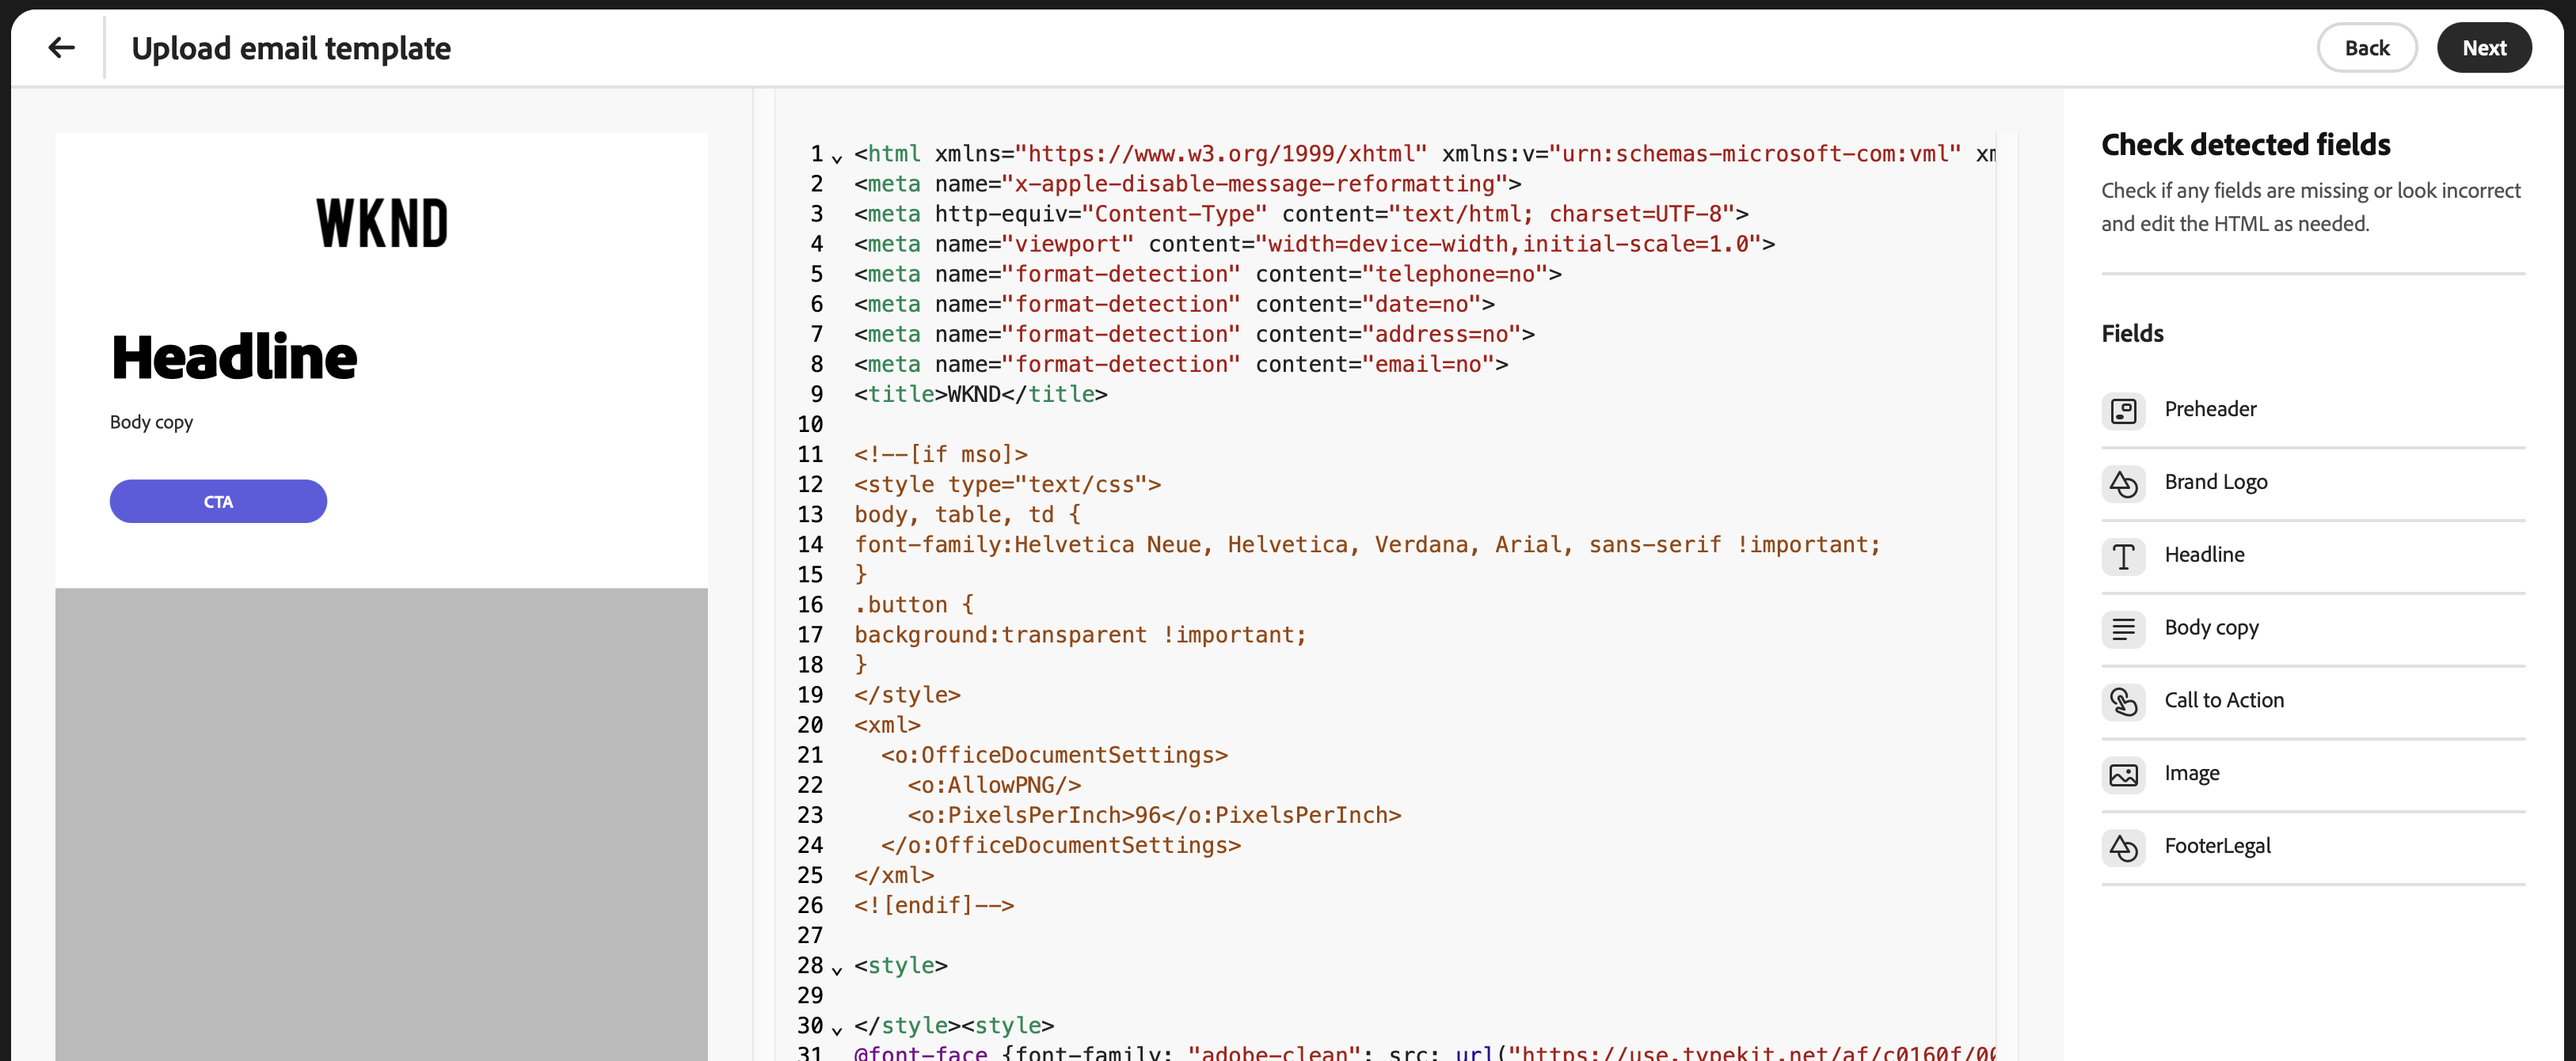
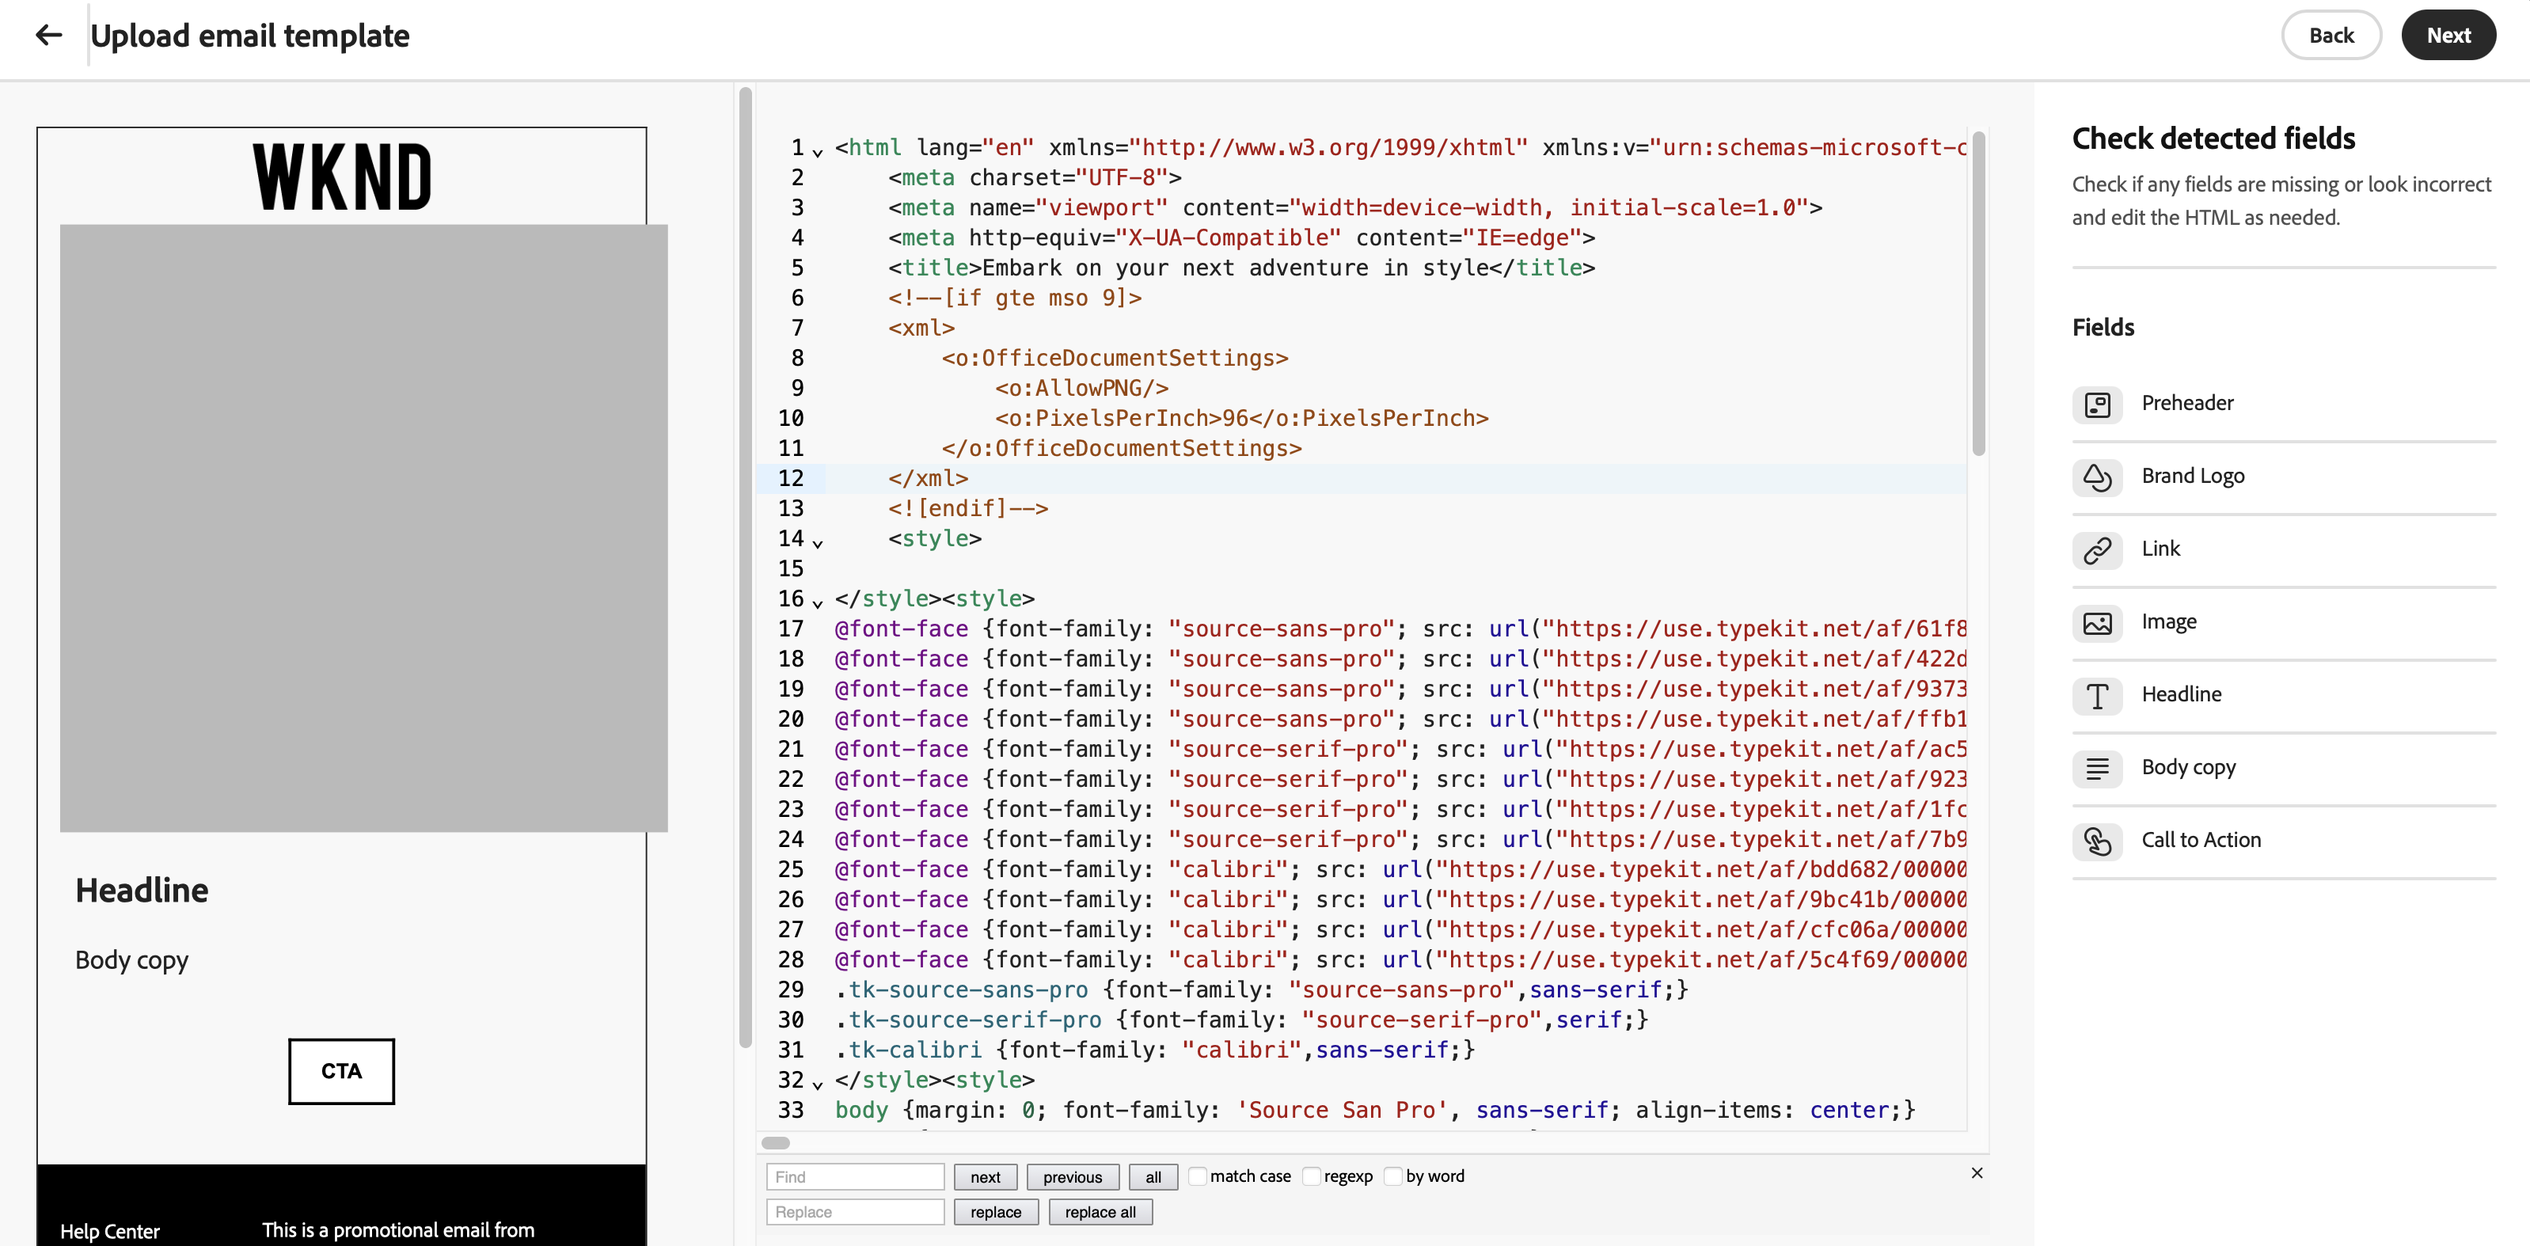
Template code editor

Changed region(s): [[0.0, 0.0, 1.0, 1.0], [0.5885, 0.8867, 0.7434, 0.9172], [0.8364, 0.7644, 0.8983, 0.8255]]

diff --git a/help/user-guide/content/code-editor.md b/help/user-guide/content/code-editor.md
@@ -1,0 +1,37 @@
+---
+title: Template code editor
+description: Learn how to use the template code editor in GenStudio for Performance Marketing.
+level: Intermediate
+feature: Templates, Content
+---
+# Template code editor
+
+The template code editor is designed to help you verify and refine your template for optimal use when generating new experiences with GenStudio for Performance Marketing. The editor supports the Handlebars syntax, which uses placeholders within the template to indicate where GenStudio for Performance Marketing should generate content for you.
+
+>[!TIP]
+>
+>Before uploading your template HTML code in the [!DNL Content] _Templates_ view, prepare your template by inserting content placeholders defined in the [Customize templates](customize-template.md) guidance.
+
+## Check detected fields
+
+The _[!UICONTROL Check detected fields]_ pane shows a list of fields that GenStudio for Performance Marketing recognizes in your template. Review the list, and you can scroll through the HTML code to look at the formation of your template. Use the Find and Replace form (Windows `CTRL`+`F` or macOS `CMD`+`F`) to search for specific strings in the code.
+
+![Code editor view](/help/assets/template-detected-fields.png "Check detected fields")
+
+### Insert a missing field
+
+If you notice that a field is missing from the list, search your template code and find the location for the missing field. Insert the correct placeholder using the Handlebars syntax and a [recognized field name](/help/user-guide/content/customize-template.md#recognized-field-names).
+
+TBD—Give an example
+
+### Make a correction
+
+If there are errors in your template, you may see a `Template is invalid` message that includes a brief explanation of the issue. In the following example, the message indicates that the `_image` field does not conform to the field naming convention established in the multi-pod template. The message further advises that you need to update the field name with the correct prefix.
+
+![Code editor view with error](/help/assets/template-editor-invalid.png "Invalid template")
+
+Find the `_image` field in the template code editor, and update the name as advised:
+
+![Code editor view with error](/help/assets/template-editor-valid.png "Corrected template")
+
+The _[!UICONTROL Check detected fields]_ pane updates to reflect the changes that you made. Once you are satisfied that the fields are correct and complete, click **[!UICONTROL Next]** to continue processing your template.

diff --git a/help/user-guide/content/use-templates.md b/help/user-guide/content/use-templates.md
@@ -104,7 +104,7 @@ Before uploading a template, ensure it is fully prepared and ready for use in Ge
 
 1. In the _[!UICONTROL Add your approved template]_ pane, browse for the HTML template file or drag the HTML template file to the drop space. Click **[!UICONTROL Next]**.
 
-1. In the _[!UICONTROL Review discovered fields]_ pane, review the detected fields. Verify that you are using the correct template and that all the details are as expected. Click **[!UICONTROL Next]**.
+1. In the _[!UICONTROL Check detected fields]_ pane, review the fields. Verify that you are using the correct template and that all the details are as expected.
 
    Example Preview for an email template:
 
@@ -112,7 +112,9 @@ Before uploading a template, ensure it is fully prepared and ready for use in Ge
 
    >[!TIP]
    >
-   >If the template is not correct, click **[!UICONTROL Back]** and return to the previous step. Upload the corrected template file.
+   >If the template is not correct, click **[!UICONTROL Back]** and return to the previous step. Upload the corrected template file. Or use the [template code editor](/help/user-guide/content/code-editor.md) to make simple corrections.
+
+1. Click **[!UICONTROL Next]** when you are satisfied with the template preview.
 
 1. In the _[!UICONTROL Provide template details and upload]_ pane, name your template and select a **[!UICONTROL Channel]** type.
 

diff --git a/help/user-guide/content/customize-template.md b/help/user-guide/content/customize-template.md
@@ -172,6 +172,8 @@ Example Preview for an email template:
 
 ![Preview fields detected](/help/assets/template-detected-fields.png)
 
+See Template code editor.
+
 ### Control preview
 
 You can control the visibility of special content by using Built-in Helpers (special expressions in the [!DNL Handlebars] template language that perform certain actions). For example, you can add a conditional statement that adds tracking parameters to links in the exported template while keeping the preview links clean.

diff --git a/help/user-guide/TOC.md b/help/user-guide/TOC.md
@@ -47,6 +47,7 @@ feature: Generative AI
   + Templates {#templates}
     + [Work with templates](content/use-templates.md)
     + [Customize a template](content/customize-template.md)
+    + [Template code editor](content/code-editor.md)
     + [Create accessible templates](content/accessibility-for-templates.md)
     + [Best practices for templates](content/best-practices-for-templates.md)
 + Campaigns {#campaigns}
